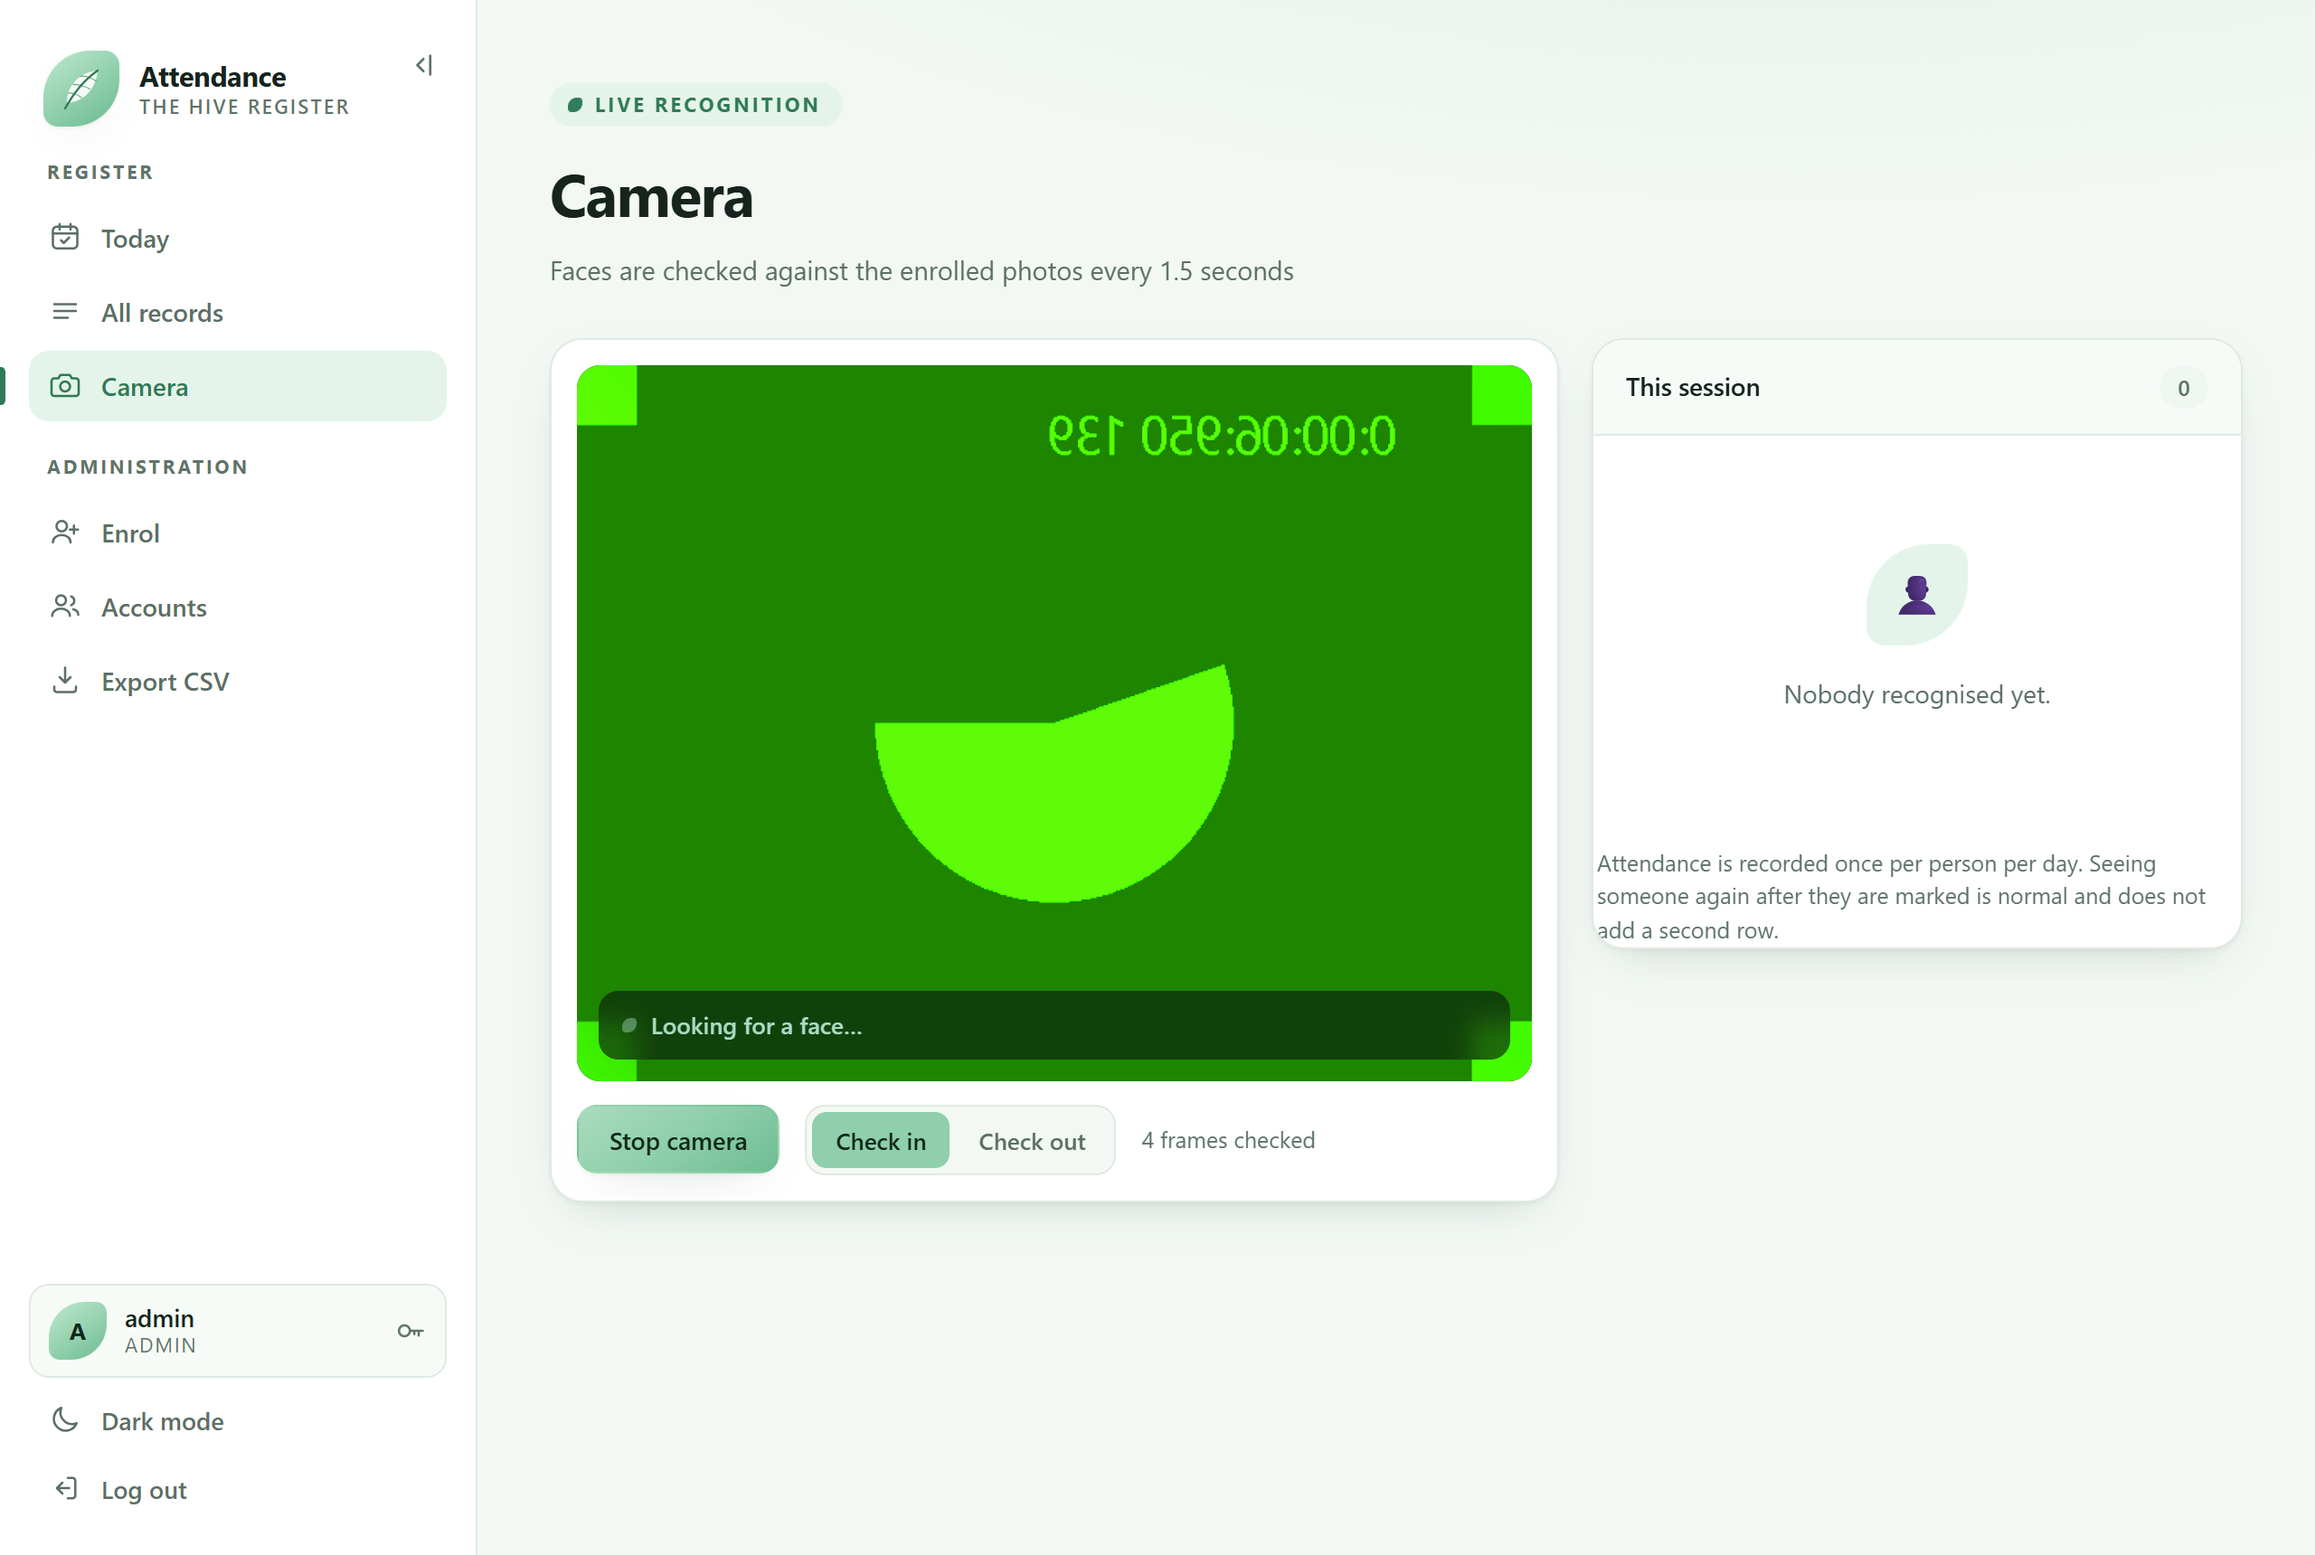
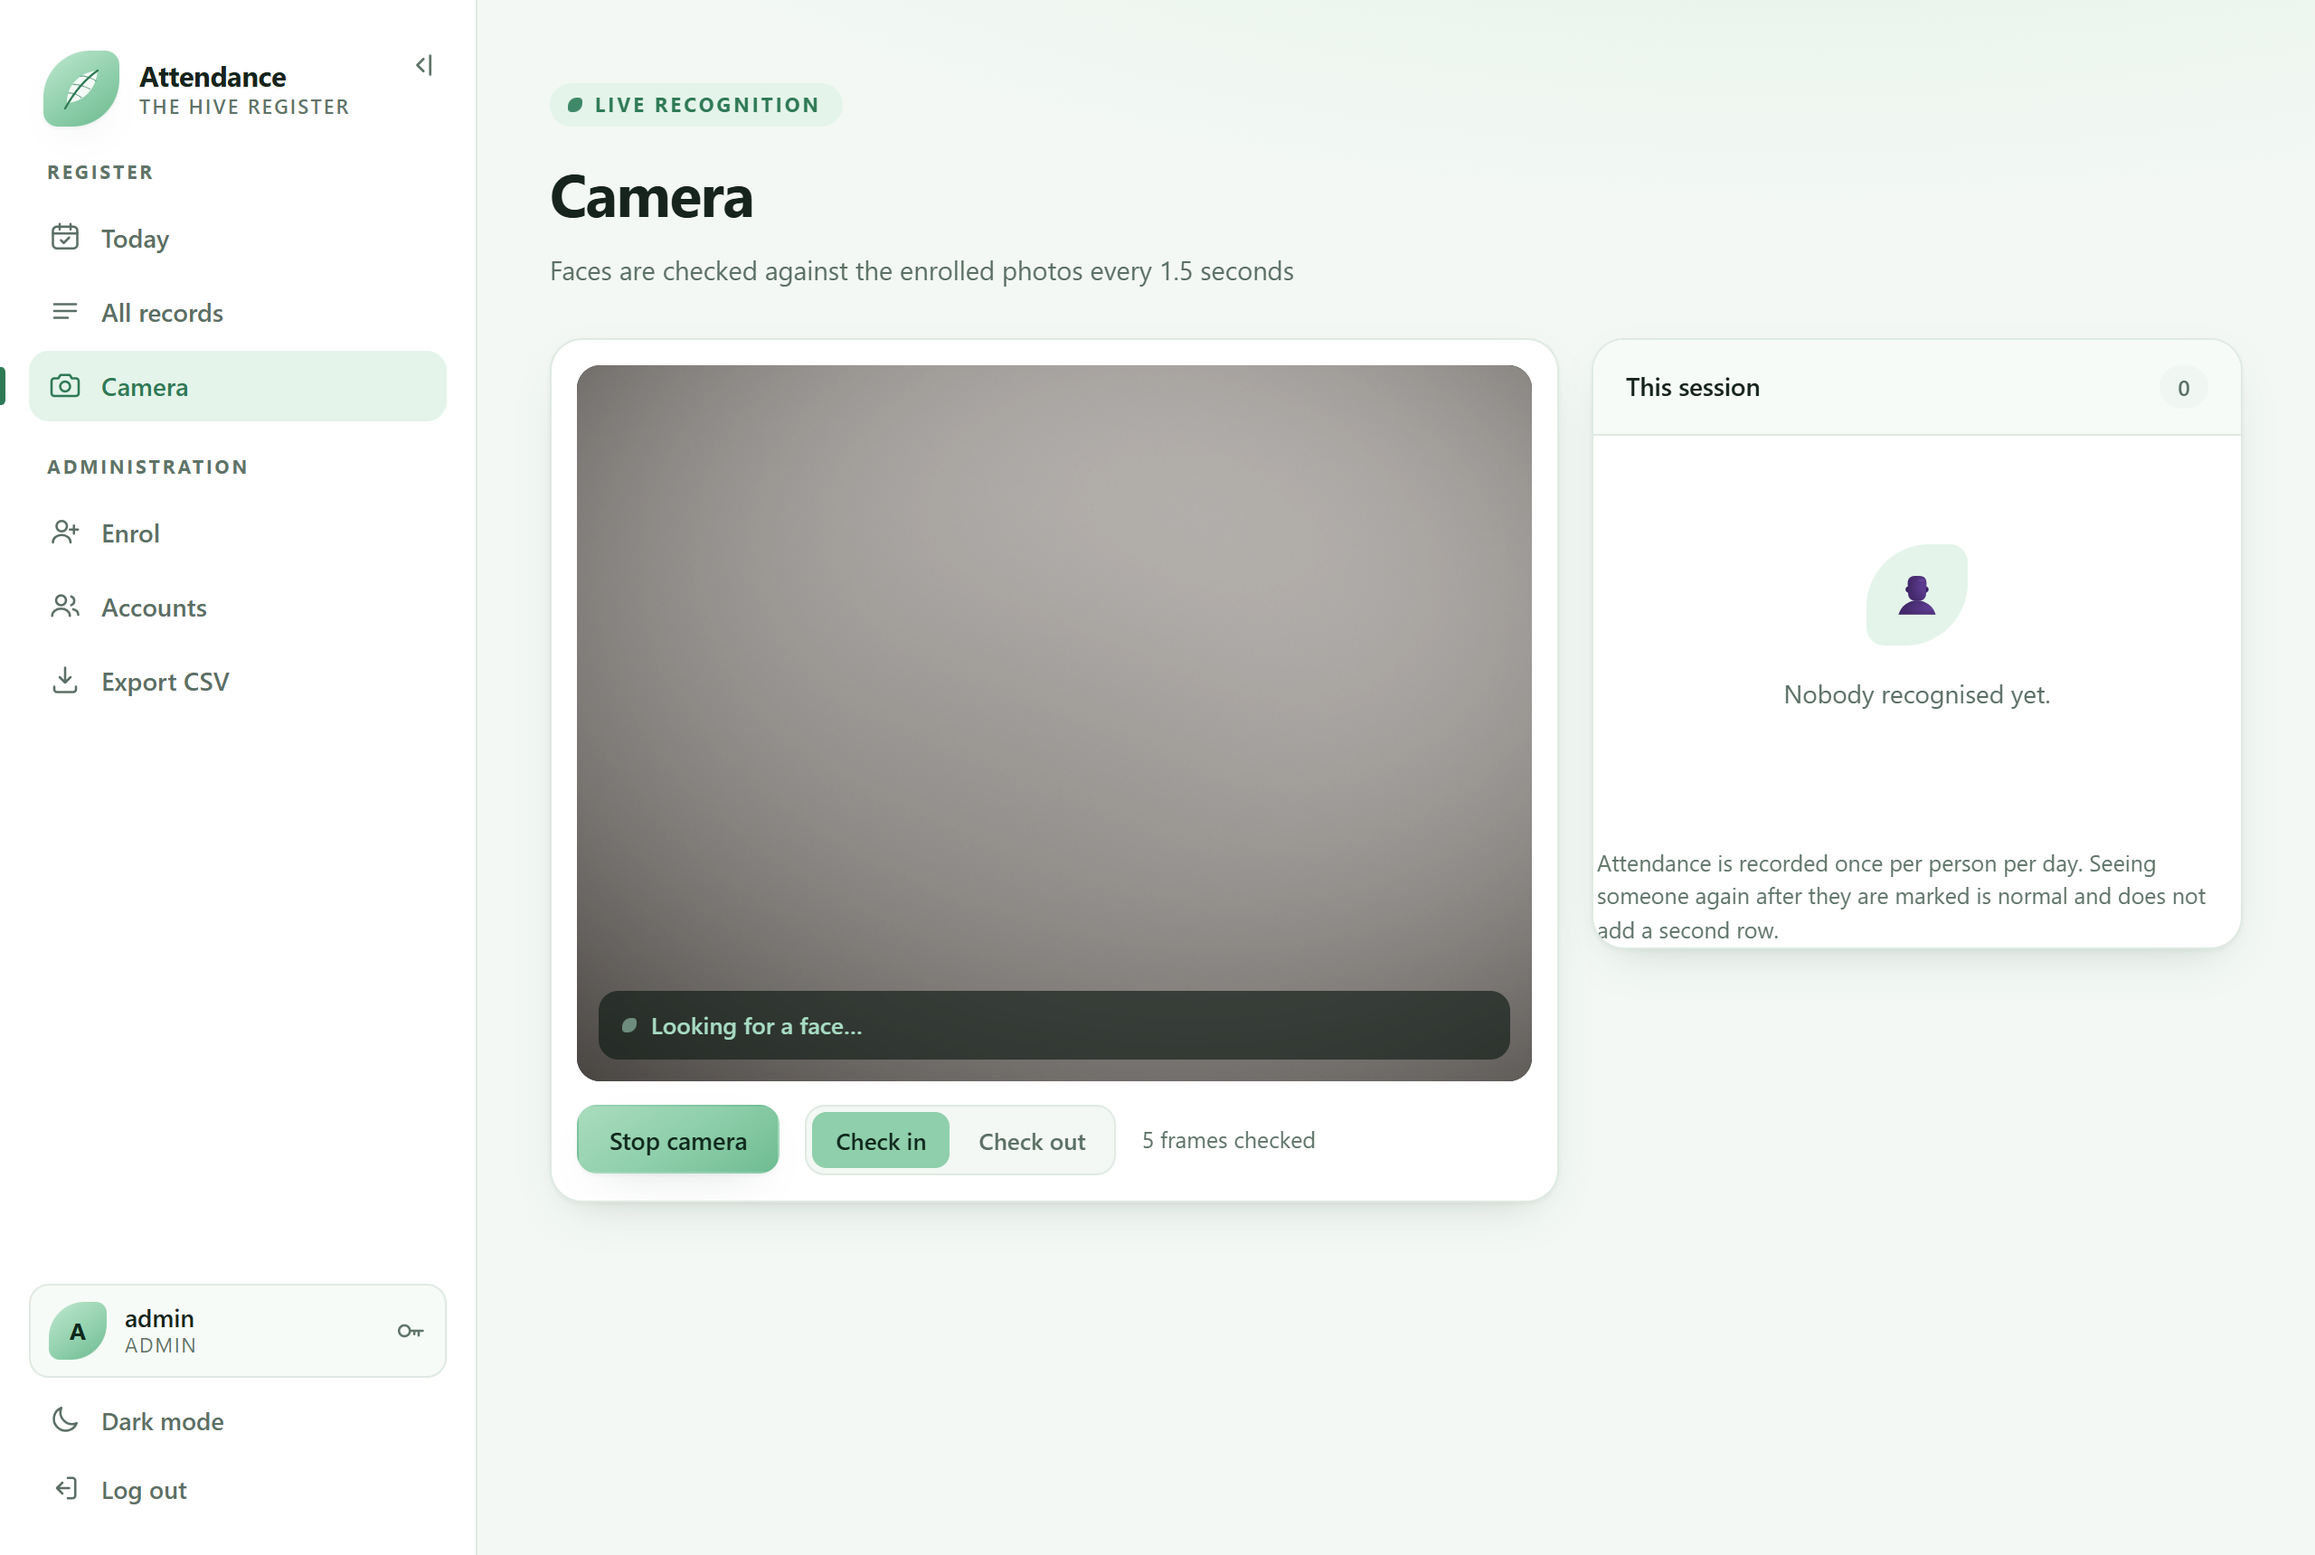
update readme

Changed region(s): [[0.25, 0.2157, 0.6875, 0.7087]]

diff --git a/README.md b/README.md
@@ -49,8 +49,9 @@ switch, and a running list of who has been recognised in this session.
 
 ![The camera page, running](docs/screenshots/camera.png)
 
-<sub>Captured headlessly, so the video panel is showing the browser's synthetic test
-camera rather than a room.</sub>
+<sub>Captured headlessly, so the video panel is showing a synthetic camera feed rather
+than a room. The preview is mirrored on purpose — moving left on screen matches moving
+left in front of the camera.</sub>
 
 | Today's register | Full archive |
 | --- | --- |
